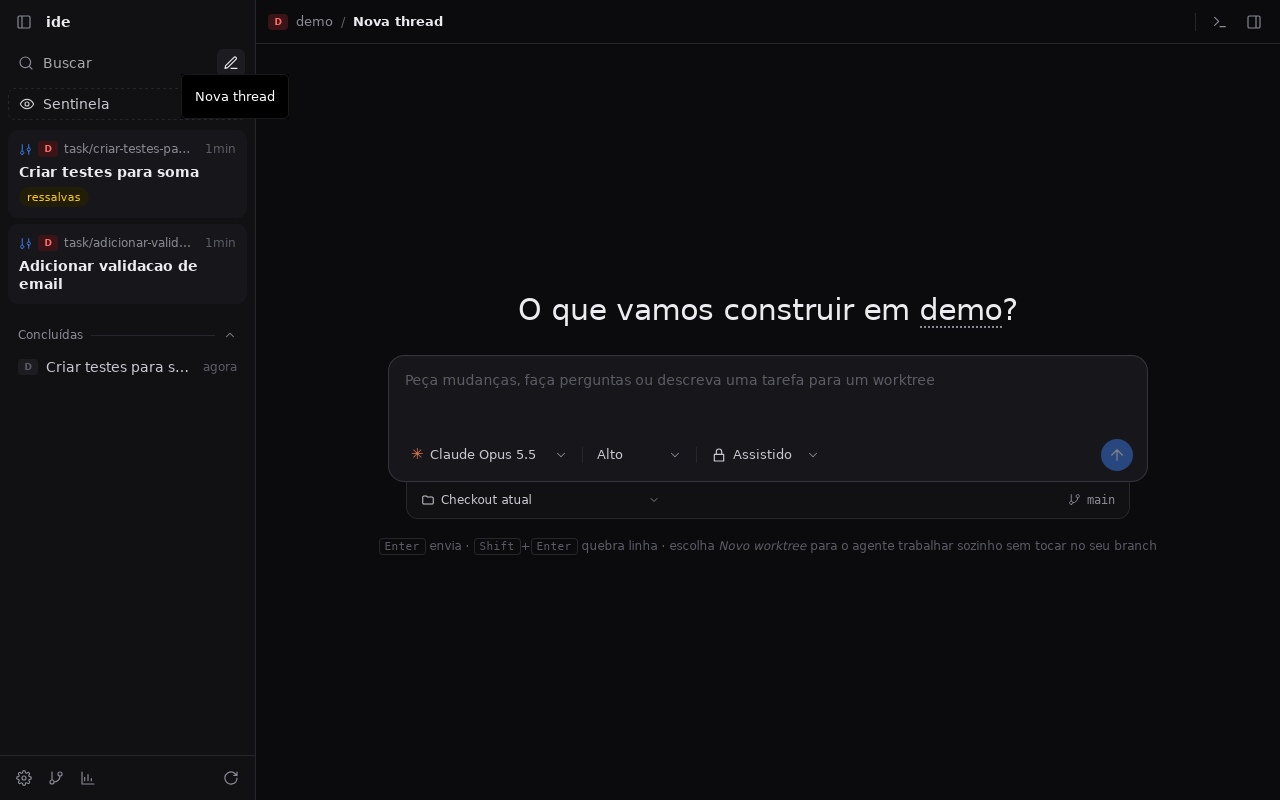
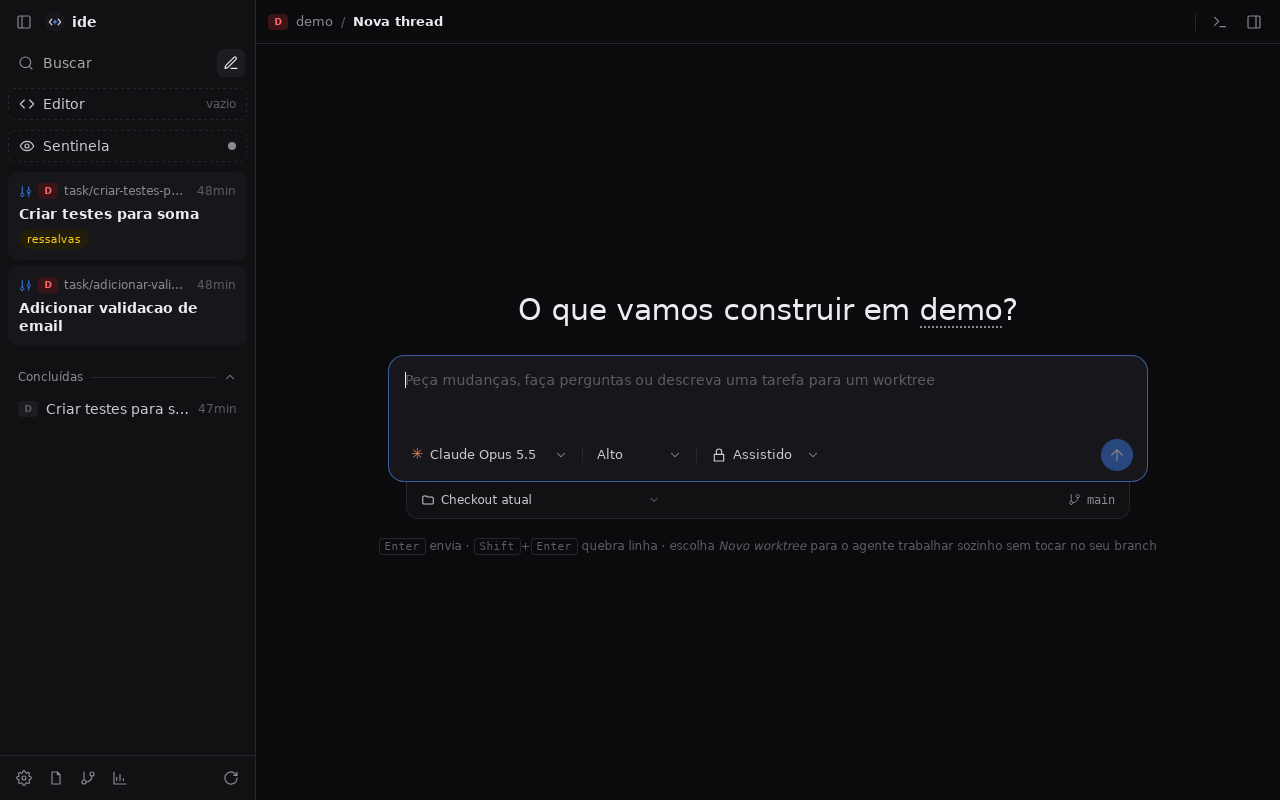
docs: documentar a fase 3 com a adr 0004
ADR 0004 (editor, LSP no Rust, ide-mcp, segurança de caminhos e por
que as ferramentas de LSP pedem aprovação), arquitetura com os fluxos
do editor e das ferramentas do agente, escopos syntax/lsp/mcp/editor,
roadmap com a fase 3 concluída e README com as telas novas.

Claude-Session: https://claude.ai/code/session_01Ag7BhT17Ph4mGoDXFdyhVD

diff --git a/.project/architecture/monorepo.md b/.project/architecture/monorepo.md
@@ -11,7 +11,10 @@ ide/
 │       │   └── lib/ipc.ts  # wrappers tipados dos comandos Tauri
 │       └── src-tauri/      # crate ide-desktop: só comandos finos, sem lógica
 ├── crates/
-│   ├── core/               # ide-core — git: projeto, worktrees, diff
+│   ├── core/               # ide-core — git: projeto, worktrees, diff; arquivos (files.rs)
+│   ├── syntax/             # ide-syntax — tree-sitter: outline e busca de símbolos
+│   ├── lsp/                # ide-lsp — cliente LSP + gerenciador de servidores por linguagem
+│   ├── mcp/                # ide-mcp — servidor MCP stdio (bin) com as ferramentas do agente
 │   ├── pty/                # ide-pty — terminais (portable-pty)
 │   ├── timeline/           # ide-timeline — eventos em SQLite
 │   └── agent/              # ide-agent — processo do sidecar + protocolo tipado
@@ -51,6 +54,18 @@ Tarefa (lib/tasks.ts)
   → done sem erro → conversa "review:<slug>" é reiniciada e recebe o prompt de revisão
     em modo review → veredito extraído do texto (lib/prompts.ts::parseVerdict)
   → Integrar: task_merge (merge --no-ff) + task_discard
+
+Editor (lib/editor.ts)
+  FilesPanel → files_tree / file_read → ide_core::files (resolve: sem `..` nem symlink fora)
+  Monaco → lsp_open/change/save/close, lsp_hover, lsp_definition → editor.rs
+    → ide_lsp::LspManager (um servidor por linguagem, do PATH) ─ spawn_blocking
+  servidor publica diagnósticos → emit("lsp://diagnostics") → markers do Monaco
+  Ctrl+S → file_write (atômico) → lsp_change + lsp_save (rust-analyzer checa no save)
+
+Ferramentas do agente (ADR 0004)
+  ide_agent::locate → IDE_MCP_COMMAND (env do sidecar) → server.ts::ideMcp
+  → SDK sobe `ide-mcp --root <cwd>` por sessão → outline_file, find_symbol,
+    project_tree (ide-syntax/ide-core), diagnostics, definition (ide-lsp)
 ```
 
 ## UI (apps/desktop/src)
@@ -62,8 +77,11 @@ lib/threads.ts     threads por projeto no localStorage (sem apagar as de outros 
 lib/tasks.ts       thread em worktree, revisão de tarefa e do working tree
 lib/sentinel.ts    agente em background (ociosidade → revisão leve; respeita orçamento)
 lib/banners.ts     avisos no topo
+lib/editor.ts      abas abertas, salvar, markers e providers LSP do Monaco
+lib/monaco.ts      workers, tema e linguagens do Monaco
 components/        Sidebar, TopBar, ThreadView (+ SentinelView), Composer, ChatItem,
-                   RightPanel (DiffPanel, TimelinePanel, TodayPanel), Banners, Terminal
+                   EditorView, FilesPanel,
+                   RightPanel (DiffPanel, FilesPanel, TimelinePanel, TodayPanel), Banners, Terminal
 ```
 
 ## Protocolo do agente
@@ -92,7 +110,8 @@ A restrição é verificada em `agent_send` (Rust). Ver ADR 0002.
 
 `pnpm build` usa `src-tauri/tauri.bundle.conf.json`, que roda `scripts/bundle-sidecar.mjs`
 (build + `pnpm deploy --prod` com `node-linker=hoisted`, sem a variante de libc que não é
-a da máquina) e inclui `resources/agent/` no instalador. Em runtime o sidecar é procurado
+a da máquina) e inclui `resources/agent/` no instalador. O mesmo script compila `ide-mcp` em release e o
+copia para `src-tauri/binaries/ide-mcp-<triple>` (`externalBin`). Em runtime o sidecar é procurado
 em `IDE_AGENT_SCRIPT` → recursos do app → `packages/agent/dist` (dev).
 
 `pnpm dev`, `pnpm check` e o CI não usam esse config, então não precisam do deploy.
@@ -103,6 +122,7 @@ em `IDE_AGENT_SCRIPT` → recursos do app → `packages/agent/dist` (dev).
 |---|---|
 | `IDE_AGENT_SCRIPT` | caminho do sidecar; tem prioridade sobre o empacotado e o build local |
 | `IDE_NODE` | executável do Node (padrão: `node` do PATH) |
+| `IDE_MCP_COMMAND` | binário `ide-mcp`; o Rust preenche (binário ao lado do executável do app; em dev, `target/debug`) e repassa ao sidecar |
 
 Para testar a UI sem gastar API, aponte `IDE_AGENT_SCRIPT` para um script que fale o
 protocolo (veja o sidecar falso em `crates/agent/src/lib.rs`, testes).

diff --git a/.project/decisions/0004-fase-3-editor-lsp-e-mcp.md b/.project/decisions/0004-fase-3-editor-lsp-e-mcp.md
@@ -1,0 +1,58 @@
+# 0004 — Fase 3: editor Monaco, LSP no Rust e ferramentas MCP para o agente
+
+- Status: aceita
+- Data: 2026-10-02
+
+## Contexto
+
+A Fase 3 do roadmap pede Monaco, LSP e tree-sitter expostos ao agente como ferramentas
+MCP. O agente já lê e edita arquivos pelo SDK, mas não tem visão de estrutura (outline,
+símbolos) nem dos erros do compilador sem rodar o build inteiro. A UI não tinha editor.
+
+## Decisão
+
+- **Uma implementação, dois clientes.** tree-sitter (`crates/syntax`) e o cliente LSP
+  (`crates/lsp`) vivem no Rust e servem tanto o editor da UI (comandos Tauri finos em
+  `src-tauri/src/editor.rs`) quanto o agente (`crates/mcp`).
+- **MCP como binário stdio separado (`ide-mcp --root <dir>`)**, e não um servidor dentro
+  do processo do app: o SDK sobe servidores MCP stdio sozinho, com o `cwd` certo
+  (inclusive worktrees). Hoje é um processo por pedido (cada `query()` sobe o seu). O Rust informa o caminho ao sidecar por `IDE_MCP_COMMAND`;
+  sem a variável, o agente roda sem as ferramentas. No instalador, `ide-mcp` vai como
+  `externalBin`.
+- **Ferramentas que não editam nada**, em dois grupos:
+  - `outline_file`, `find_symbol`, `project_tree` (tree-sitter, só leem arquivos) são
+    aprovadas de antemão em `allowedTools`;
+  - `diagnostics` e `definition` sobem o servidor de linguagem, que **executa código do
+    projeto** (`build.rs`, proc-macros e `cargo check` no rust-analyzer; o `tsserver` do
+    `node_modules`). Passam pela aprovação como um comando e ficam fora do modo `plan`.
+    Num repositório não confiável, uma prompt injection não as dispara sem você ver.
+- **Servidores de linguagem do PATH** (rust-analyzer, typescript-language-server, pyright,
+  gopls). Ausente → o editor e a ferramenta dizem "indisponível"; nada é baixado.
+- **Sincronização completa** (`didChange` com o texto inteiro) e **`didSave` ao salvar**:
+  o rust-analyzer só roda o `cargo check` no save; sem isso os erros não somem.
+- **Segurança de caminhos** em `ide_core::files::resolve`: caminhos relativos, sem `..`,
+  sem symlink que saia da raiz. Escrita atômica com temporário de nome único criado com
+  `create_new` (nunca escreve através de um symlink plantado), mantendo as permissões do
+  original e gravando no alvo de symlinks internos. Limite de 2 MB e recusa de binários;
+  a busca de símbolos ignora symlinks.
+- **Servidor que morre é substituído** no próximo uso; o `LspManager` guarda os documentos
+  abertos pelo editor, reabre-os no servidor novo e descarta versões fora de ordem.
+- **Monaco** com workers locais (Vite `?worker`) e diagnósticos próprios do TypeScript
+  desligados: a fonte de verdade é o servidor de linguagem, igual ao que o agente vê.
+- **Ícone novo** do app (chevrons de código + faísca), gerado com `tauri icon` a partir
+  de um SVG; Android/iOS fora do repositório.
+
+## Consequências
+
+- ✅ O agente navega por estrutura e vê erros reais sem ler arquivos inteiros nem rodar build.
+- ✅ Editor e agente enxergam os mesmos diagnósticos.
+- ✅ Funciona em worktrees de tarefa sem configuração extra (o `--root` é o `cwd`).
+- ❌ Cada pedido ao agente sobe seu próprio `ide-mcp` e, se usar `diagnostics`/`definition`,
+  um servidor de linguagem frio (que disputa o lock do `target/` com o do editor). Em
+  projeto grande a primeira chamada pode responder "indexando". Próximo passo: um
+  `ide-mcp` por conversa (transporte HTTP/SSE ou servidor MCP no processo do sidecar).
+- ❌ Os comandos `file_*`/`lsp_*` aceitam a raiz que a UI mandar (como `pty_spawn`); a
+  fronteira é o próprio webview (CSP `default-src 'self'`). Restringir às raízes abertas
+  fica como defesa em profundidade futura.
+- ❌ Sem autocompletar via LSP nem rename ainda — hover, definição e diagnósticos primeiro.
+- ❌ Debugger (ADR 0003) continua adiado; agora há editor para apoiá-lo.

diff --git a/README.md b/README.md
@@ -1,3 +1,5 @@
+<img src="apps/desktop/src-tauri/icons/128x128.png" alt="" width="64" align="right">
+
 # ide — AI Development OS pessoal
 
 Ambiente de desenvolvimento sob medida, local-first, construído em volta de um agente.
@@ -10,6 +12,7 @@ Visão completa e fases em [`docs/ROADMAP.md`](docs/ROADMAP.md).
 | | |
 |---|---|
 | ![Thread em worktree com revisão automática](docs/images/thread-worktree.png) | ![Sentinela e resumo do dia](docs/images/sentinela-hoje.png) |
+| ![Editor com diagnósticos do rust-analyzer](docs/images/editor.png) | ![Hover e outline no editor](docs/images/editor-hover.png) |
 
 Interface centrada em **threads** (estilo T3 Code, tema escuro):
 
@@ -25,7 +28,15 @@ Interface centrada em **threads** (estilo T3 Code, tema escuro):
   alterações não commitadas procurando só bloqueantes. Opt-in, esforço baixo, avisa no topo.
 - **Hoje** (Fase 4): gasto do dia com **orçamento diário** (corta a Sentinela), atividade,
   tarefas abertas e commits de hoje — calculado localmente, sem chamar o modelo.
-- **Painel lateral** com Alterações (diff), Timeline e Hoje; **terminal** recolhível que
+- **Editor** (Fase 3): Monaco com abas, árvore de arquivos (respeita `.gitignore`),
+  outline (tree-sitter) e **servidor de linguagem** — erros sublinhados, hover, F12 para
+  a definição (inclusive em outro arquivo); Ctrl+S salva e o servidor verifica de novo. Usa
+  rust-analyzer, typescript-language-server, pyright ou gopls do PATH.
+- **Ferramentas para o agente** (Fase 3): o binário `ide-mcp` expõe via MCP
+  `outline_file`, `find_symbol`, `project_tree`, `diagnostics` e `definition` — o agente
+  vê a estrutura e os erros reais sem ler arquivos inteiros nem rodar o build. As de
+  servidor de linguagem pedem aprovação (ele executa código do projeto, ver ADR 0004).
+- **Painel lateral** com Alterações (diff), Arquivos, Timeline e Hoje; **terminal** recolhível que
   mantém o shell vivo; avisos no topo para erros, integrações e achados da Sentinela.
 
   | Acesso | Leitura | Edição | Comandos | Onde |
@@ -41,7 +52,10 @@ Monorepo com pnpm workspaces + Cargo workspace. Estrutura e regras em
 
 ```text
 apps/desktop/        @ide/desktop — UI Solid + src-tauri (comandos finos)
-crates/core/         ide-core — git: projeto, worktrees, diff
+crates/core/         ide-core — git: projeto, worktrees, diff, arquivos
+crates/syntax/       ide-syntax — tree-sitter: outline e símbolos
+crates/lsp/          ide-lsp — cliente LSP e servidores por linguagem
+crates/mcp/          ide-mcp — servidor MCP com as ferramentas do agente
 crates/pty/          ide-pty — terminais
 crates/timeline/     ide-timeline — eventos em SQLite
 crates/agent/        ide-agent — ponte com o sidecar (JSON lines)
@@ -62,7 +76,7 @@ pnpm check      # typecheck + fmt + clippy + testes (Rust e sidecar)
 pnpm build      # instaladores em target/release/bundle, com o sidecar embutido
 ```
 
-O instalador leva o sidecar e o CLI nativo do Claude Code (~280 MB no Linux); o Node
+O instalador leva o sidecar, o `ide-mcp` e o CLI nativo do Claude Code (~280 MB no Linux); o Node
 ainda precisa estar instalado na máquina.
 
 O app abre o projeto git do diretório onde foi iniciado.

diff --git a/docs/ROADMAP.md b/docs/ROADMAP.md
@@ -25,7 +25,7 @@ Tauri 2 (Rust)                         Sidecar Node (Claude Agent SDK)
 ├── Timeline (SQLite)
 └── MCP server  ──────────────────────► tools expostas ao agente
         │
-SolidJS UI: chat · diff · terminal · timeline · (Monaco, fase 3)
+SolidJS UI: threads · editor Monaco · diff · terminal · timeline
 ```
 
 ## Módulos
@@ -104,7 +104,7 @@ SolidJS UI: chat · diff · terminal · timeline · (Monaco, fase 3)
 | 0 | Kit com Claude Code: Brain, agentes, skills, hooks, scripts (este repo) | ✅ |
 | 1 | Shell Tauri: chat (sidecar SDK), diff, terminal PTY, timeline SQLite | ✅ (empacotar o sidecar no instalador fica para a 2) |
 | 2 | Worktree por tarefa na UI, autonomia total em worktree, pipeline de revisão, sidecar no instalador | ✅ (Node embutido e sandbox de SO ficam para depois) |
-| 3 | Monaco, LSP, tree-sitter como tools MCP | — |
+| 3 | Monaco, LSP, tree-sitter como tools MCP | ✅ editor com hover/definição/diagnósticos, `ide-mcp` para o agente (ADR 0004); autocompletar e rename depois |
 | 4 | Background agent, daily brief, debugger, embeddings | ✅ Sentinela, resumo do dia e orçamento; debugger e embeddings adiados (ADR 0003) |
 
 A Fase 0 existe para descobrir, usando no dia a dia, o que a Fase 1 realmente precisa ter.

diff --git a/.project/conventions/commits.md b/.project/conventions/commits.md
@@ -40,7 +40,7 @@ BREAKING CHANGE: <descrição, se houver>
 
 Escopos válidos refletem módulos do projeto. Atualize a lista quando surgir um módulo:
 
-`core`, `desktop`, `ui`, `agent`, `brain`, `git`, `pty`, `lsp`, `index`, `timeline`, `scripts`, `deps`, `ci`
+`core`, `desktop`, `ui`, `editor`, `agent`, `brain`, `git`, `pty`, `lsp`, `syntax`, `mcp`, `index`, `timeline`, `scripts`, `deps`, `ci`
 
 ## Estrutura (o que vai em cada commit)
 
